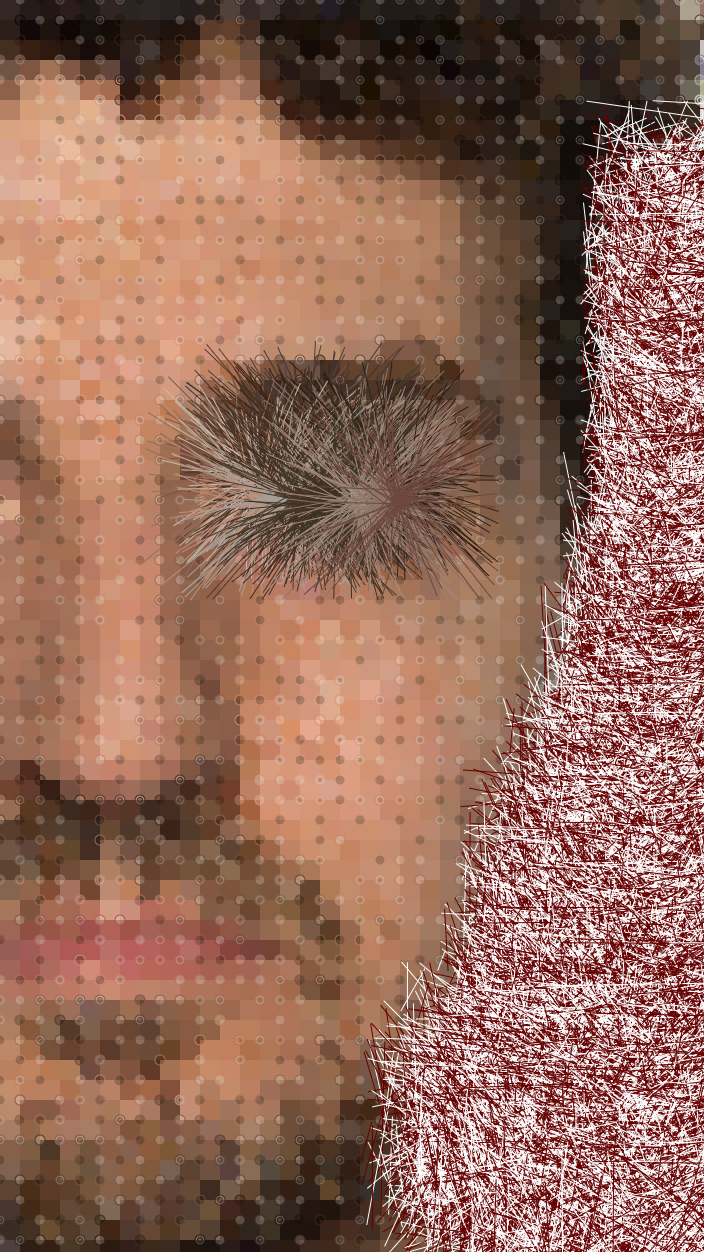
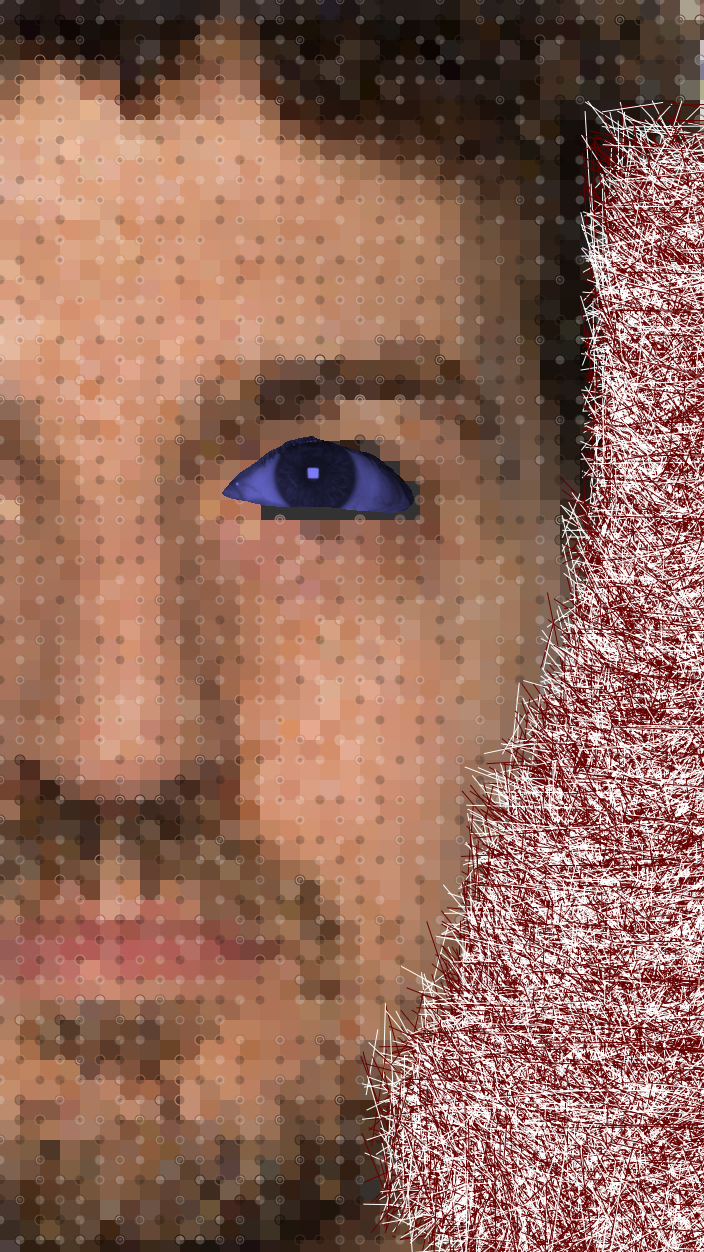
Example of using point to draw at full resolution

diff --git a/sketch.js b/sketch.js
@@ -109,10 +109,25 @@ function draw () {
         draw_some_lines(x, y);
       }
       if(mask[0] == 255) {
-        draw_some_lines2(x, y);
+        // draw_some_lines2(x, y);
       }
       else {
         // rect(x, y, tile_width, tile_height);
+      }
+    }
+    // pass 2: draw the lines where the mask is white or black
+    for(let y=0; y<height; y = y + 1) {
+      for(let x=0; x<width; x = x + 1) {
+        let pix = sourceImg.get(x, y);
+        let mask = maskImg.get(x, y);
+        if(mask[0] == 255) {          
+          // let r = 255 - pix[0];
+          // let g = 255 - pix[1];
+          // let b = 255 - pix[2];
+          let g = pix[1];
+          stroke(g/2, g/2, g);
+          point(x, y);
+        }
       }
     }
   }

diff --git a/README.md b/README.md
@@ -1,9 +1,3 @@
 ## Title: Random Tom
 
-Example showing:
-
- * A mask with multiple values: 0, 255 and in between (gray)
- * how to draw multiple passes by repeating the loop
- * how to add randomly placed details
-
- 
+Updated example showing how to draw at full photo resolution while changing the tint.
